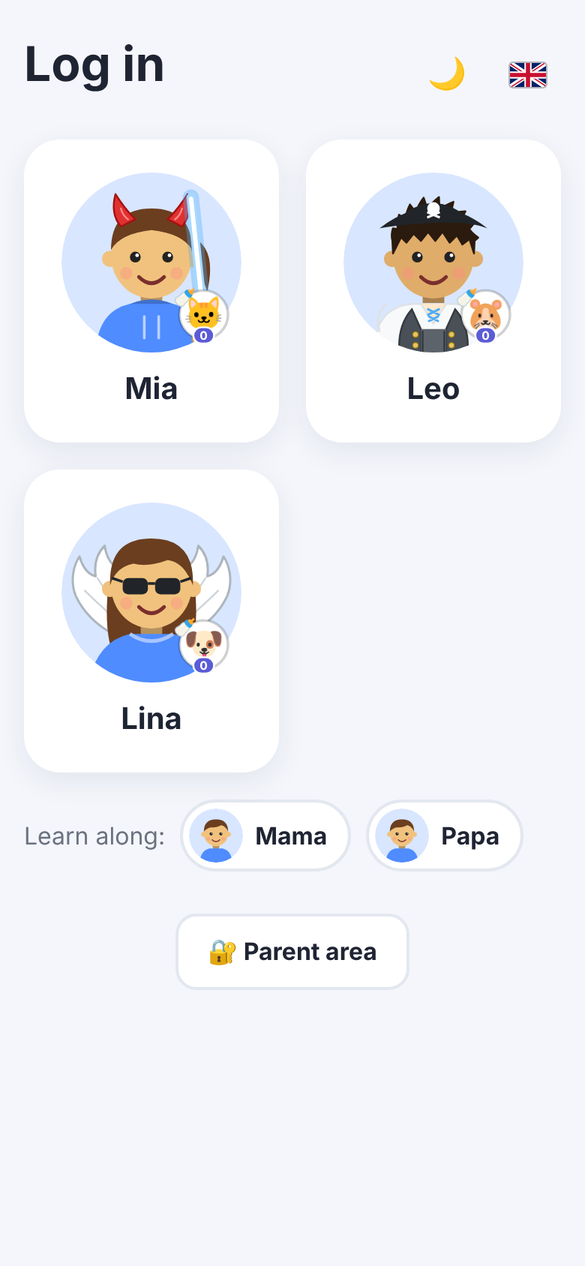
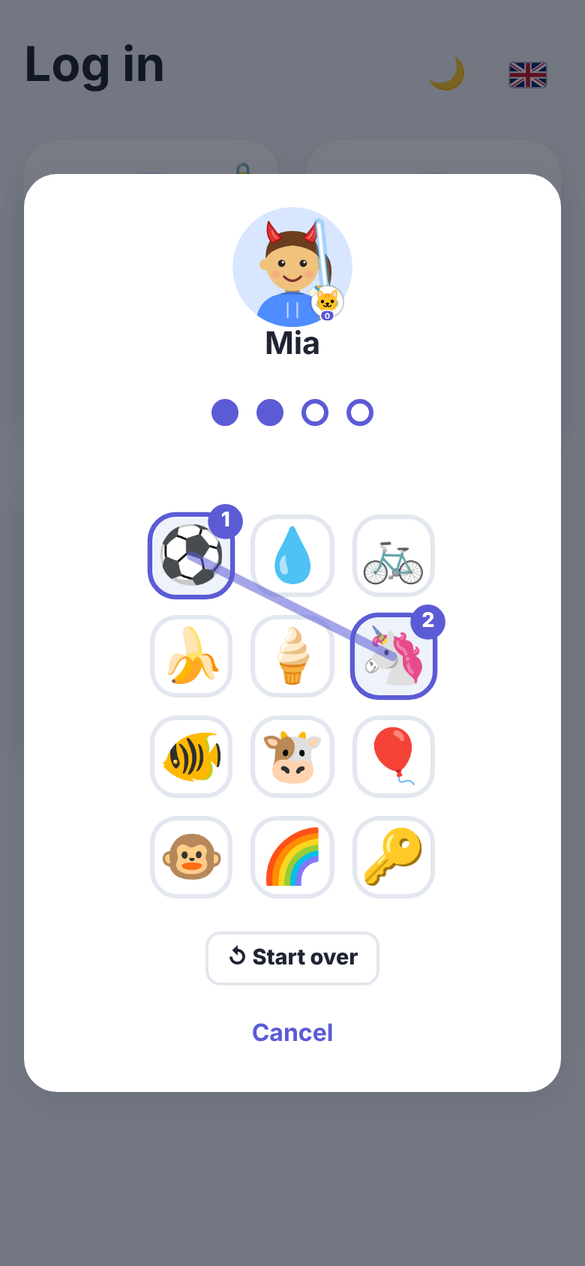
Family Quest 1.0.0
Claude-Session: https://claude.ai/code/session_01Qq55cLdzUHFMJ42xWMEhQC

diff --git a/README.md b/README.md
@@ -34,8 +34,8 @@ one place. No ads, no account, no cloud: all data stays in Home Assistant.
 
 | | | |
 |---|---|---|
-| ![Log in](docs/screenshots/login.png) | ![The child's start page](docs/screenshots/child-home.png) | ![Games](docs/screenshots/games.png) |
-| **Log in** – every child with its own avatar, optional picture or digit PIN | **Start page** – weather of the day, daily goal, chores, subjects | **Games** – 25+ games for the whole family, each switchable per child |
+| ![Picture PIN](docs/screenshots/login.png) | ![The child's start page](docs/screenshots/child-home.png) | ![Games](docs/screenshots/games.png) |
+| **Picture PIN** – children log in by tapping or drawing 4 of 12 symbols (a digit PIN is possible too) | **Start page** – weather of the day, daily goal, chores, subjects | **Games** – 25+ games for the whole family, each switchable per child |
 | ![Jass](docs/screenshots/game-jass.png) | ![Chess](docs/screenshots/game-chess.png) | ![Dorfmarkt](docs/screenshots/game-dorfmarkt.png) |
 | **Jass** – the Swiss card game with bots as partners or opponents | **Chess** – against bots or each other, games can be paused | **Dorfmarkt** – trading board game in a Swiss village |
 | ![Heimwärts](docs/screenshots/game-heimwaerts.png) | ![Shop and pranks](docs/screenshots/shop.png) | ![Pets](docs/screenshots/pets.png) |
